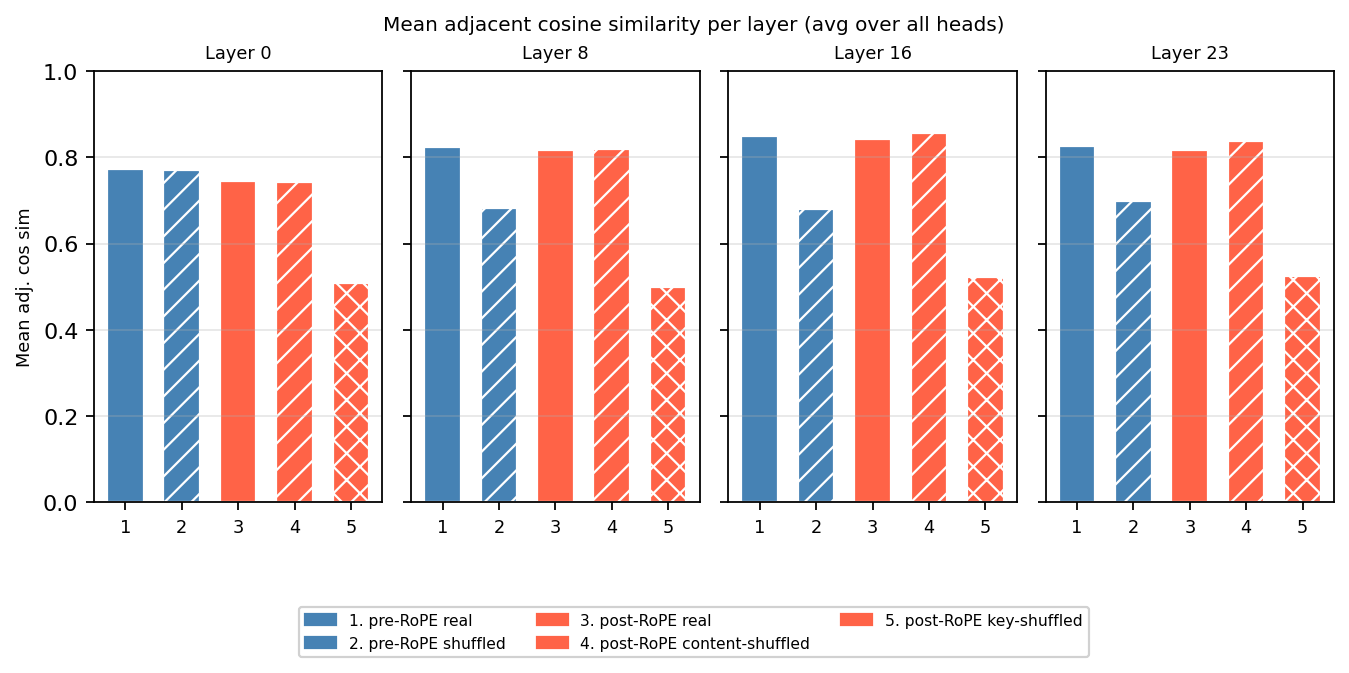
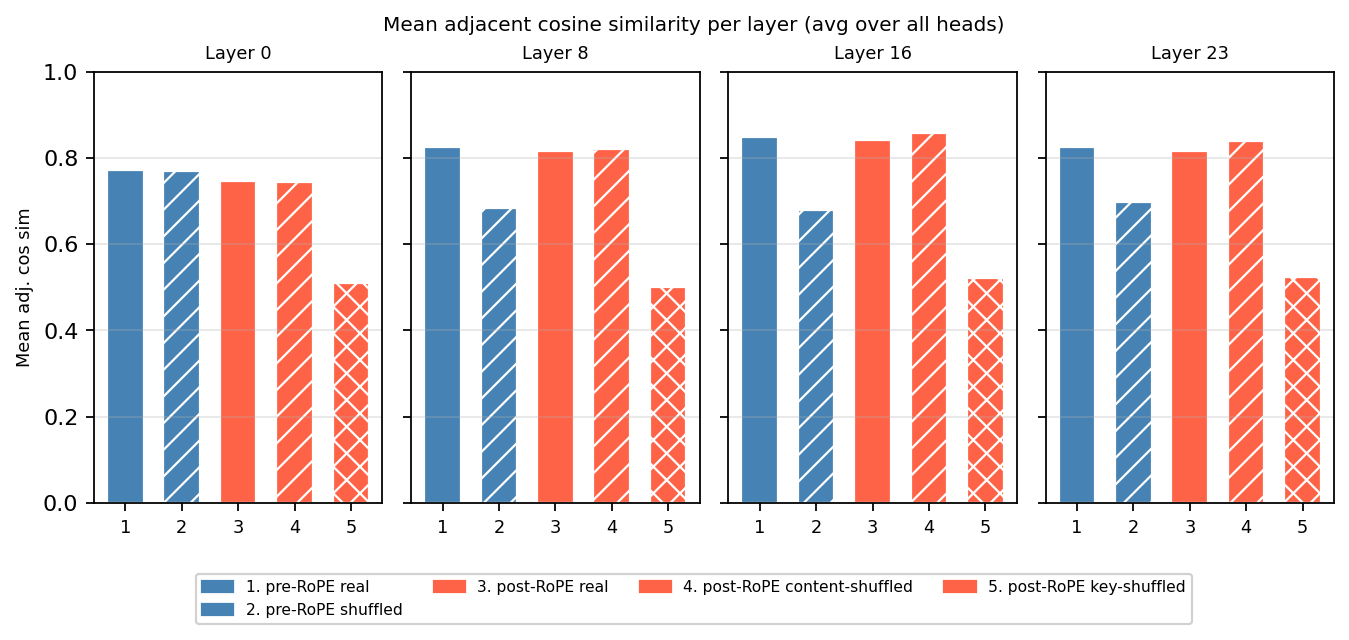
Add 5th configuration (post-RoPE key-shuffled) for key and query similarity analysis

diff --git a/visualize_query_similarity.py b/visualize_query_similarity.py
@@ -27,7 +27,7 @@ SEQ_LEN  = 512
 LAYERS   = [0, 8, 16, 23]
 HEADS    = [0, 2, 5, 7]
 SEED     = 42
-OUT_PATH = "query_similarity.png"
+OUT_PATH = "Paper/assets/query_similarity.png"
 # ─────────────────────────────────────────────
 
 AutoConfig.register("llama", LlamaConfig, exist_ok=True)
@@ -115,8 +115,26 @@ def get_sims(input_ids):
 
 torch.manual_seed(SEED)
 
-print("Forward pass…")
+print("Forward pass – real tokens…")
 pre_real, pre_shuf, post_real, post_shuf = get_sims(ids)
+
+print("Forward pass – content-shuffled tokens…")
+content_shuf_data = get_sims(shuffled_ids)
+# We only need the post-RoPE real from this run (content shuffled, positions sequential)
+post_content_shuf = content_shuf_data[2]
+
+print("Saving raw values to query_similarity_data.npz...")
+np.savez(
+    "query_similarity_data.npz",
+    pre_real=np.stack([pre_real[l] for l in LAYERS]),
+    pre_shuf=np.stack([pre_shuf[l] for l in LAYERS]),
+    post_real=np.stack([post_real[l] for l in LAYERS]),
+    post_content_shuf=np.stack([post_content_shuf[l] for l in LAYERS]),
+    post_shuf=np.stack([post_shuf[l] for l in LAYERS]),
+    layers=np.array(LAYERS),
+    seq_len=np.array(ids.shape[1]),
+)
+print("Saved raw values → query_similarity_data.npz")
 
 # ── Plot ──────────────────────────────────────────────────────────────────────
 n_layers = len(LAYERS)
@@ -130,10 +148,11 @@ fig, axes = plt.subplots(
 )
 
 STYLES = [
-    (pre_real,  "pre-RoPE real",        "steelblue", "-",  1.4),
-    (pre_shuf,  "pre-RoPE Q-shuffled",  "steelblue", "--", 1.0),
-    (post_real, "post-RoPE real",       "tomato",    "-",  1.4),
-    (post_shuf, "post-RoPE Q-shuffled", "tomato",    "--", 1.0),
+    (pre_real,          "pre-RoPE real",              "steelblue", "-",  1.4),
+    (pre_shuf,          "pre-RoPE Q-shuffled",        "steelblue", "--", 1.0),
+    (post_real,         "post-RoPE real",             "tomato",    "-",  1.4),
+    (post_content_shuf, "post-RoPE content-shuffled", "tomato",    "-.", 1.2),
+    (post_shuf,         "post-RoPE Q-shuffled",       "tomato",    "--", 1.0),
 ]
 
 for r, head_idx in enumerate(HEADS):
@@ -161,7 +180,7 @@ for r, head_idx in enumerate(HEADS):
 axes[0, 0].legend(fontsize=6.5, loc="upper left", framealpha=0.8)
 
 fig.suptitle(
-    "Adjacent query cosine similarity · pre/post-RoPE × real/Q-shuffled\n"
+    "Adjacent query cosine similarity · pre/post-RoPE × real/Q-shuffled/content-shuffled\n"
     f"LLaMA 3.1-8B-Instruct  ·  {ids.shape[1]} tokens from WikiText-103",
     fontsize=10, y=1.01,
 )
@@ -171,12 +190,12 @@ print(f"Saved → {OUT_PATH}")
 
 # ── Bar chart: mean adjacent cosine similarity per layer ──────────────────────
 BAR_VARIANTS = [
-    ("pre-RoPE real",     pre_real,  "#E6A817", ""),
-    ("pre-RoPE shuffled", pre_shuf,  "#E6A817", "//"),
-    ("post-RoPE real",    post_real, "#6B6B6B", ""),
-    ("post-RoPE shuffled",post_shuf, "#6B6B6B", "xx"),
+    ("pre-RoPE real",              pre_real,          "#E6A817", ""),
+    ("pre-RoPE shuffled",          pre_shuf,          "#E6A817", "//"),
+    ("post-RoPE real",             post_real,         "#6B6B6B", ""),
+    ("post-RoPE content-shuffled", post_content_shuf, "#6B6B6B", "//"),
+    ("post-RoPE Q-shuffled",       post_shuf,         "#6B6B6B", "xx"),
 ]
-HATCHES = ["", "//", "", "xx"]
 
 fig2, axes2 = plt.subplots(1, n_layers, figsize=(n_layers * 2.5, 3.5), sharey=True,
                             gridspec_kw={"wspace": 0.10})
@@ -199,10 +218,10 @@ for c, (layer_idx, ax) in enumerate(zip(LAYERS, axes2)):
 legend_labels = [f"{i+1}. {name}" for i, (name, _, _, _) in enumerate(BAR_VARIANTS)]
 handles = [plt.Rectangle((0,0), 1, 1, color=col, hatch=h, edgecolor="white")
            for _, _, col, h in BAR_VARIANTS]
-fig2.legend(handles, legend_labels, loc="lower center", ncol=2,
-            fontsize=7, framealpha=0.9, bbox_to_anchor=(0.5, -0.18))
+fig2.legend(handles, legend_labels, loc="lower center", ncol=3,
+            fontsize=7, framealpha=0.9, bbox_to_anchor=(0.5, -0.22))
 
 fig2.suptitle("Mean adjacent query cosine similarity per layer (avg over all heads)", fontsize=9)
-bar_path = "query_similarity_mean_by_layer.png"
+bar_path = "Paper/assets/query_similarity_mean_by_layer.png"
 plt.savefig(bar_path, dpi=160, bbox_inches="tight")
 print(f"Saved → {bar_path}")

diff --git a/Paper/src/observations.tex b/Paper/src/observations.tex
@@ -1,4 +1,5 @@
 \section{Observations}
+\label{sec:observations}
 
 \subsection{Key Similarity}
 
@@ -17,10 +18,10 @@ We repeat this for five configurations:
     \item \textbf{pre-RoPE shuffled}: key states before RoPE, token positions randomly shuffled
     \item \textbf{post-RoPE real}: key states after RoPE, original token order
     \item \textbf{post-RoPE content-shuffled}: input sequence shuffled before keys are computed, RoPE applied in natural positional order
-    \item \textbf{post-RoPE key-shuffled}: pre-RoPE key vectors shuffled, RoPE then applied
+    \item \textbf{post-RoPE key-shuffled}: key states after RoPE, token positions randomly shuffled
 \end{enumerate}
 
-\begin{figure}[h]
+\begin{figure}[!ht]
     \centering
     \includegraphics[width=\linewidth]{../assets/cos_analysis.png}
     \caption{Average cosine similarity of adjacent key states under five configurations for LLaMA-3 8B Instruct at layers 0, 8, 16, and 23.}
@@ -40,8 +41,10 @@ When content is in natural order, applying RoPE does not significantly change ad
 
 Configuration 4 in Figure~\ref{fig:cos_analysis} shows a different picture.
 The input content is shuffled before keys are computed, so the key states lack content-driven adjacency.
-After RoPE is on the shuffled keys, the similarity recovers to nearly the level of configuration 3.
+After RoPE is applied, the similarity recovers to nearly the level of configuration 3.
 RoPE raises the similarity of adjacent positions regardless of the underlying content order.
+
+Configuration 5 in Figure~\ref{fig:cos_analysis} (post-RoPE key-shuffled) shows what happens if we break positional adjacency after RoPE is applied. The similarity drops back down, confirming that RoPE's contribution relies on evaluating adjacent positions sequentially.
 
 Key similarity at the token level is therefore a combination of three factors: the key projection creates a high global similarity floor, semantic content raises similarity further for adjacent tokens in natural text, and RoPE contributes a positional adjacency structure on top of that.
 
@@ -50,11 +53,11 @@ Key similarity at the token level is therefore a combination of three factors: t
 The same analysis on query states shows that the query projection has the same properties as the key projection.
 Query vectors show high cosine similarity regardless of token order, which means the projection itself pushes queries into a narrow region of the query space.
 In later layers, similarity is higher for real sequences than for shuffled ones, suggesting that query vectors pick up contextual information and adjacent tokens in natural text end up closer together.
-RoPE recovers adjacent similarity for shuffled sequences, contributing a positional structure on top of the content signal.
+As with keys, applying RoPE to shuffled sequences (post-RoPE content-shuffled) recovers adjacent similarity, contributing a positional structure on top of the content signal. Furthermore, breaking the positional adjacency after RoPE (post-RoPE Q-shuffled) drops the similarity back down.
 
-\begin{figure}[h]
+\begin{figure}[!ht]
     \centering
     \includegraphics[width=\linewidth]{../assets/query_similarity_mean_by_layer.png}
-    \caption{Mean adjacent query cosine similarity per layer (averaged over all heads) for LLaMA-3 8B Instruct at layers 0, 8, 16, and 23, under four configurations: pre-RoPE real, pre-RoPE shuffled, post-RoPE real, and post-RoPE shuffled.}
+    \caption{Mean adjacent query cosine similarity per layer (averaged over all heads) for LLaMA-3 8B Instruct at layers 0, 8, 16, and 23, under five configurations: pre-RoPE real, pre-RoPE shuffled, post-RoPE real, post-RoPE content-shuffled, and post-RoPE Q-shuffled.}
     \label{fig:query_similarity}
 \end{figure}

diff --git a/plot_cos_analysis.py b/plot_cos_analysis.py
@@ -1,0 +1,56 @@
+"""
+Regenerate assets/cos_analysis.png (paper Figure, Section 3.1) from raw data.
+
+Reads key_similarity_data.npz and plots mean adjacent key cosine similarity
+per layer, one bar per configuration. Five configurations.
+"""
+
+import numpy as np
+import matplotlib.pyplot as plt
+
+DATA_PATH = "key_similarity_data.npz"
+OUT_PATH  = "Paper/assets/cos_analysis.png"
+
+d = np.load(DATA_PATH)
+LAYERS = d["layers"].tolist()
+
+# (array, label, color, hatch) — order matches the paper's config numbering
+VARIANTS = [
+    (d["pre_real"],          "pre-RoPE real",              "steelblue", ""),
+    (d["pre_shuf"],          "pre-RoPE shuffled",          "steelblue", "//"),
+    (d["post_real"],         "post-RoPE real",             "tomato",    ""),
+    (d["post_content_shuf"], "post-RoPE content-shuffled", "tomato",    "//"),
+    (d["post_shuf"],         "post-RoPE key-shuffled",     "tomato",    "xx"),
+]
+
+n_variants = len(VARIANTS)
+n_layers   = len(LAYERS)
+
+fig, axes = plt.subplots(1, n_layers, figsize=(n_layers * 2.5, 3.5), sharey=True,
+                         gridspec_kw={"wspace": 0.10})
+
+for c, (layer_idx, ax) in enumerate(zip(LAYERS, axes)):
+    means  = [arr[c].mean() for arr, _, _, _ in VARIANTS]
+    colors = [col           for _, _, col, _ in VARIANTS]
+    bars   = ax.bar(range(n_variants), means, color=colors,
+                    edgecolor="white", width=0.65)
+    for bar, (_, _, _, hatch) in zip(bars, VARIANTS):
+        bar.set_hatch(hatch)
+    ax.set_xticks(range(n_variants))
+    ax.set_xticklabels([str(i + 1) for i in range(n_variants)], fontsize=8)
+    ax.set_title(f"Layer {layer_idx}", fontsize=8)
+    ax.set_ylim(0, 1)
+    ax.grid(True, axis="y", alpha=0.3)
+    if c == 0:
+        ax.set_ylabel("Mean adj. cos sim", fontsize=8)
+
+legend_labels = [f"{i + 1}. {label}" for i, (_, label, _, _) in enumerate(VARIANTS)]
+handles = [plt.Rectangle((0, 0), 1, 1, color=col, hatch=hatch, edgecolor="white")
+           for _, _, col, hatch in VARIANTS]
+fig.legend(handles, legend_labels, loc="lower center", ncol=4,
+           fontsize=7, framealpha=0.9, bbox_to_anchor=(0.5, -0.12))
+
+fig.suptitle("Mean adjacent cosine similarity per layer (avg over all heads)", fontsize=9)
+plt.savefig(OUT_PATH, dpi=160, bbox_inches="tight")
+plt.close()
+print(f"Saved -> {OUT_PATH}")
